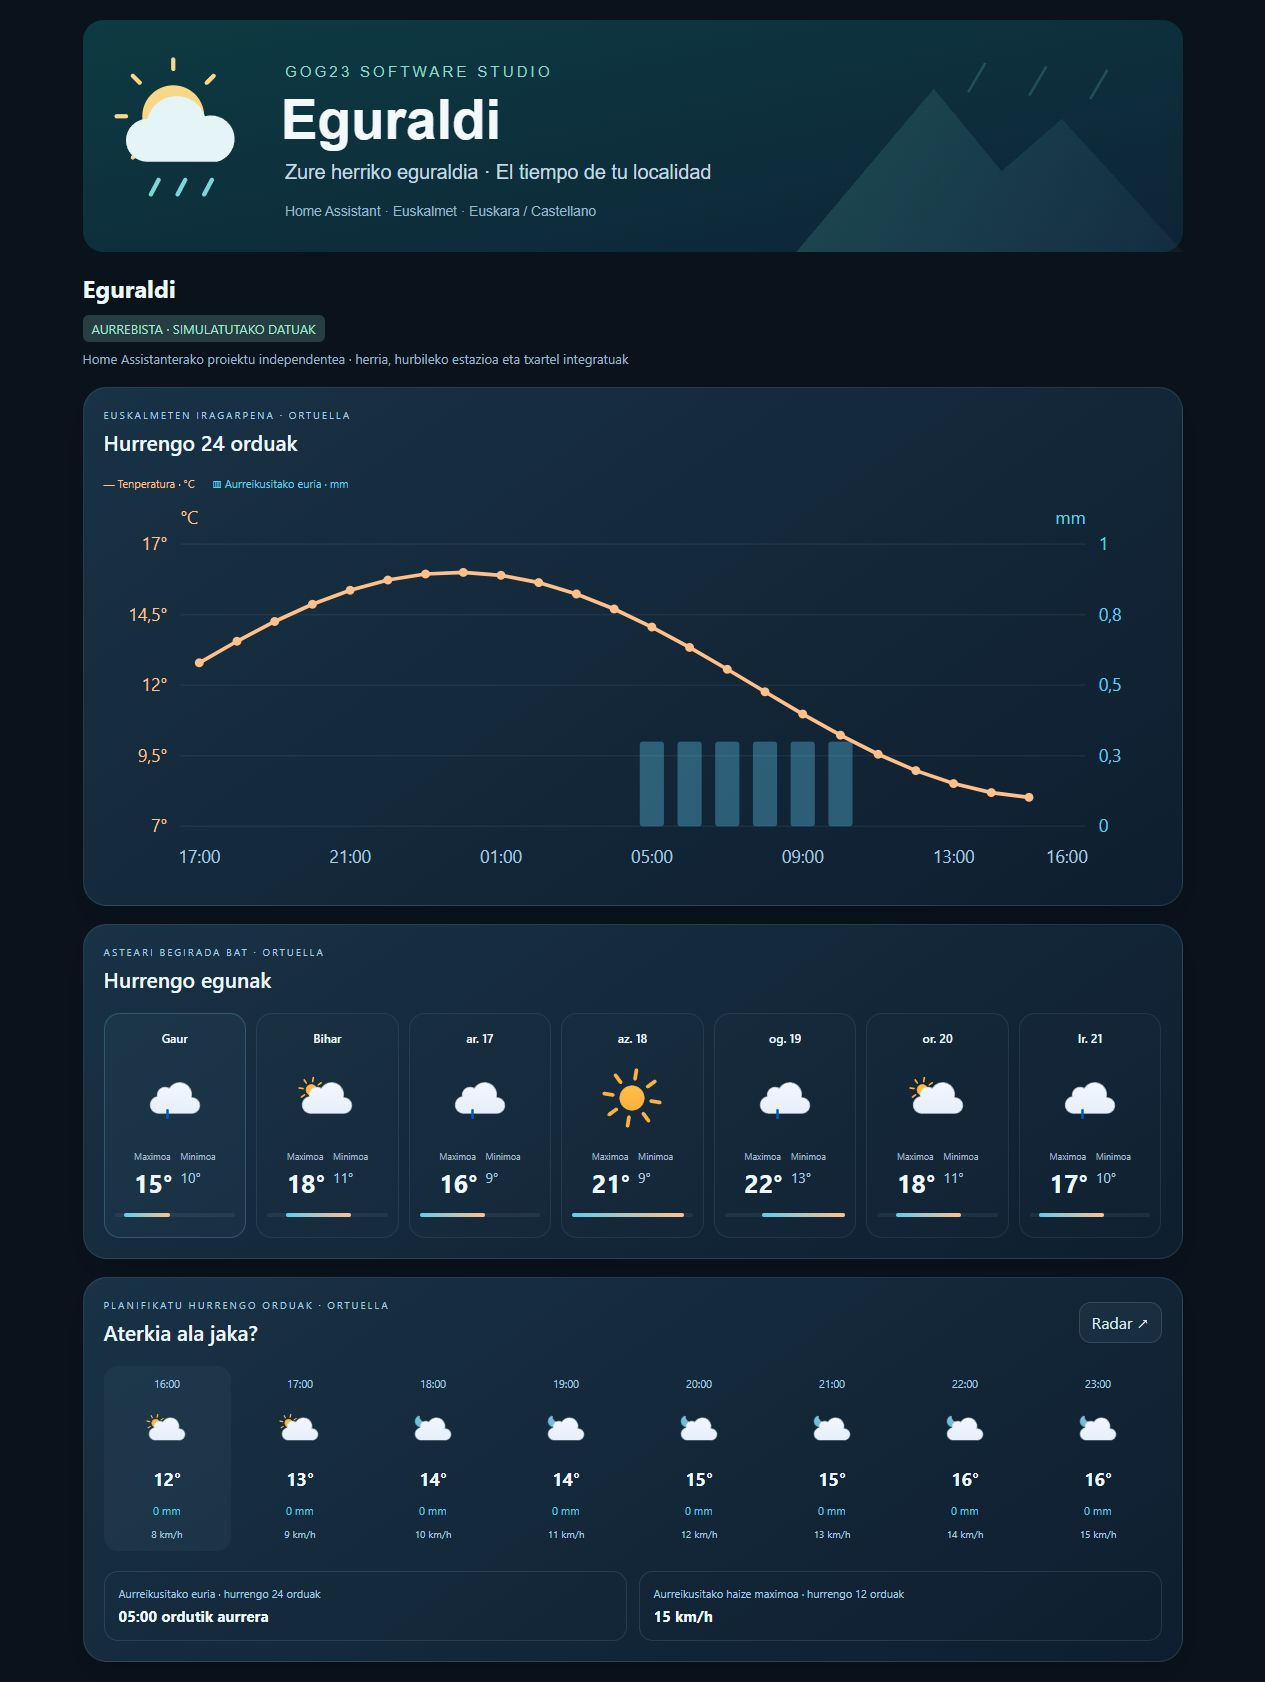
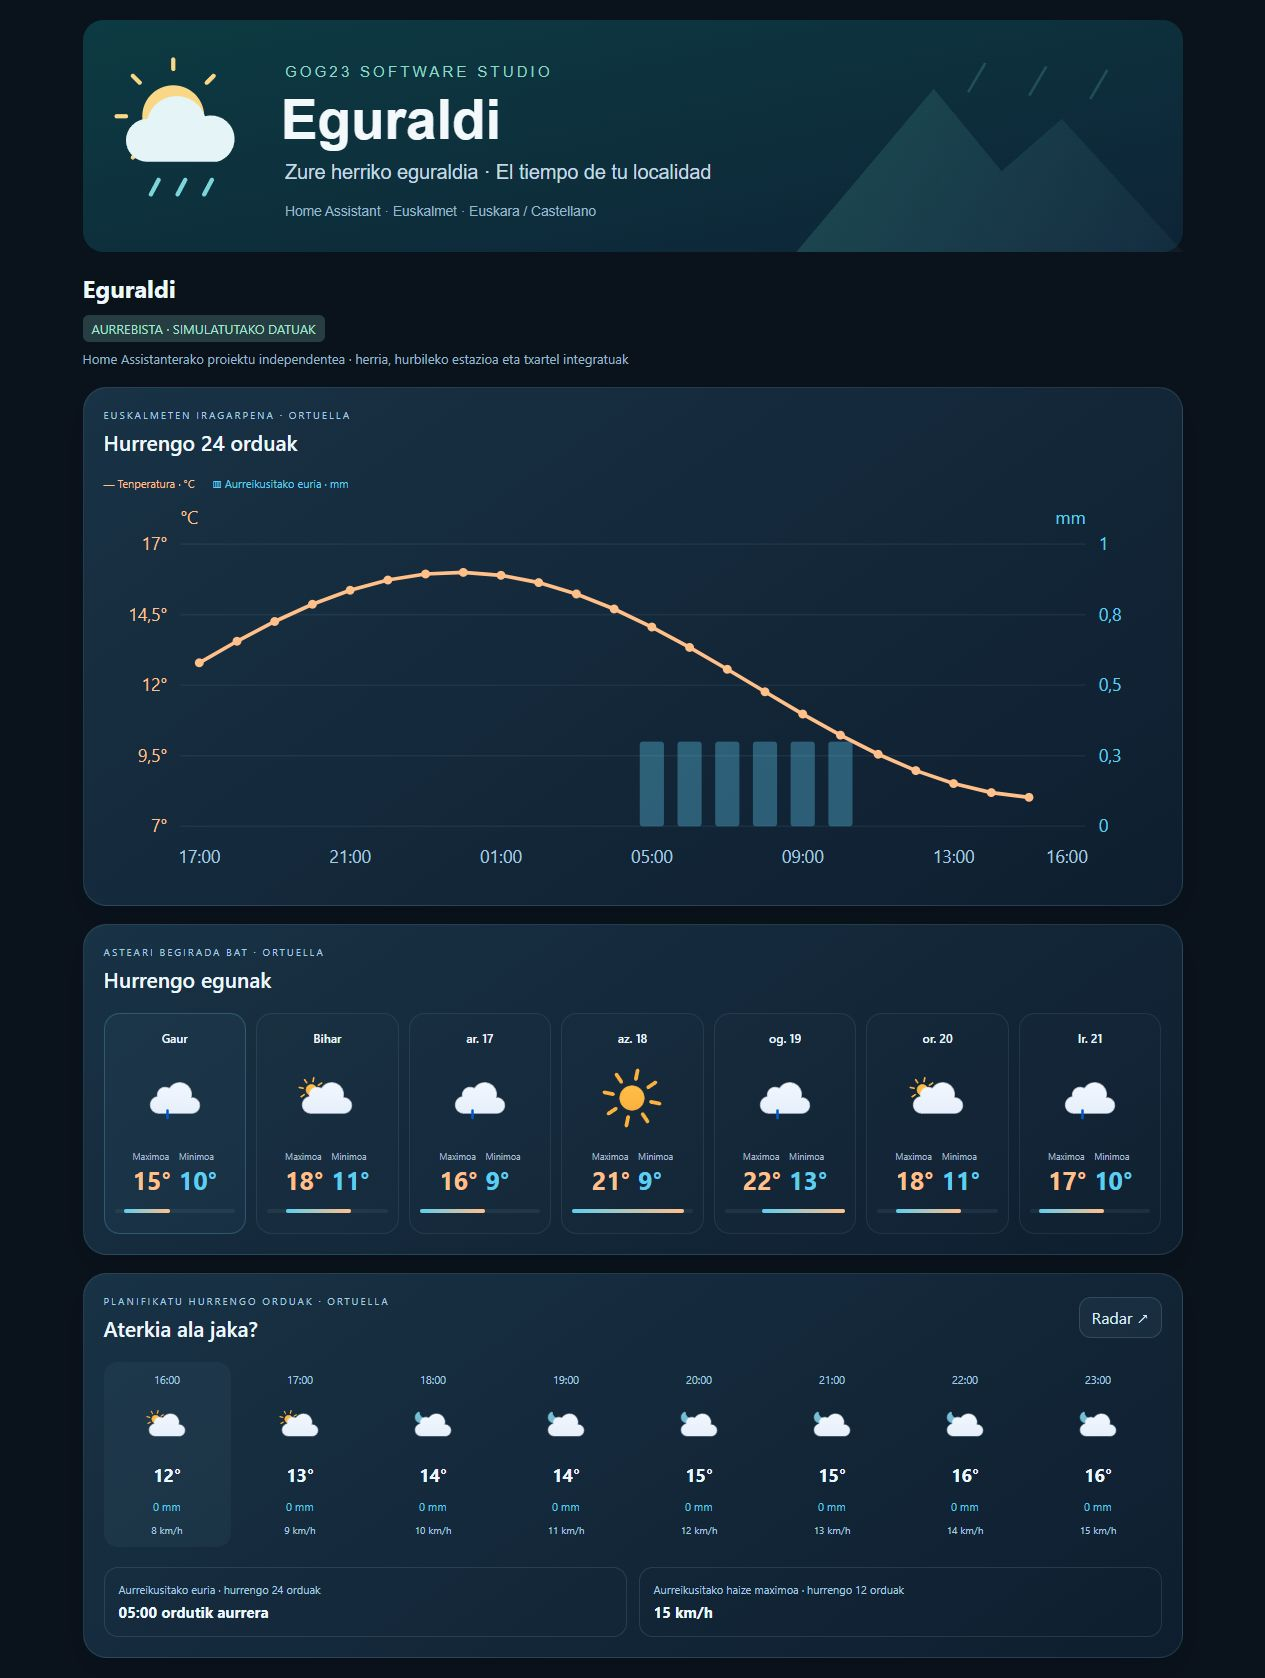
Equalize daily high and low temperatures with distinct colors

diff --git a/custom_components/euskalmet_local/frontend/euskalmet-local-card.js b/custom_components/euskalmet_local/frontend/euskalmet-local-card.js
@@ -1,8 +1,8 @@
 /* Eguraldi — GOG23 Software Studio. MIT. Icons: Meteocons / Bas Milius. */
-import './euskalmet-alert-card.js?v=0.1.7';
-import './eguraldi-comparison-card.js?v=0.1.7';
-import './euskalmet-history-card.js?v=0.1.7';
-import './euskalmet-radar-map-card.js?v=0.1.7';
+import './euskalmet-alert-card.js?v=0.1.8';
+import './eguraldi-comparison-card.js?v=0.1.8';
+import './euskalmet-history-card.js?v=0.1.8';
+import './euskalmet-radar-map-card.js?v=0.1.8';
 
 const EU_TEXT = {
   "Despejado": "Oskarbi",
@@ -146,8 +146,8 @@ const CSS = `
 
 
 const FORECAST_CSS=`
-.forecast-top{display:flex;justify-content:space-between;align-items:center;gap:12px;margin-bottom:20px}.forecast-top h2{margin:6px 0 0}.forecast-kicker{text-transform:uppercase;letter-spacing:2px;font-size:10px;color:#a9cbe4}.forecast-legend{display:flex;gap:18px;flex-wrap:wrap;font-size:11px;margin-bottom:12px}.forecast-legend .temperature{color:#ffbf83}.forecast-legend .precipitation{color:#68cef3}.forecast-chart{display:block;width:100%;height:auto;overflow:visible}.chart-grid{stroke:#a9cbe414;stroke-width:1}.chart-temp{stroke:#ffbf83;stroke-width:2.5;fill:none}.chart-bar{fill:#68cef3;fill-opacity:.35}.forecast-foot{display:flex;justify-content:space-between;gap:12px;flex-wrap:wrap;margin-top:18px;font-size:10px;color:#a9becf}.week-tiles{display:grid;grid-template-columns:repeat(auto-fit,minmax(115px,1fr));gap:10px}.week-tile{display:flex;flex-direction:column;align-items:center;min-width:0;padding:16px 10px;border:1px solid #9acdd91c;border-radius:16px;background:#ffffff02}.week-tile:first-child{background:#8ecade0a;border-color:#78c9ec40}.week-day{font-size:12px;font-weight:600}.week-tile img{width:80px;height:80px;margin:12px 0}.week-values{display:flex;align-items:baseline;gap:8px}.week-values strong{font-size:25px}.week-values span{font-size:14px;color:#a9cbe4}.week-values small{display:block;font-size:9px;font-weight:400;color:#a9becf;margin-bottom:4px}.week-track{height:4px;width:100%;position:relative;border-radius:4px;background:#94b9d017;margin:14px 0 4px}.week-range{position:absolute;height:100%;min-width:4px;max-width:100%;border-radius:4px;background:linear-gradient(90deg,#68cef3,#ffbf83)}.week-rain{font-size:11px;color:#68cef3}.planning-hours{display:grid;grid-template-columns:repeat(8,minmax(0,1fr));gap:6px}.planning-hour{text-align:center;padding:10px 2px;border-radius:14px;font-size:11px;color:#a9cbe4}.planning-hour:first-child{background:#8ecade0d}.planning-hour img{height:58px;width:100%;object-fit:contain;margin:9px 0}.planning-hour strong{display:block;color:#edf8ff;font-size:18px;margin:5px 0 12px}.planning-hour .planning-rain{color:#68cef3;margin-bottom:8px}.planning-hour small{font-size:10px}.planning-summary{display:grid;grid-template-columns:1fr 1fr;gap:12px;margin-top:20px}.planning-summary div{border:1px solid #9acdd926;border-radius:14px;padding:14px;font-size:11px;color:#a9cbe4}.planning-summary strong{display:block;margin-top:5px;font-size:15px;color:#edf8ff}#planning-radar:empty{display:none}#planning-radar{margin-top:16px}.chart-point:focus-visible{outline:none;stroke:#fff;stroke-width:3}
-@media(max-width:550px){.week-tiles{grid-template-columns:repeat(3,minmax(0,1fr));gap:8px}.week-tile{padding:12px 6px}.week-tile img{width:62px;height:62px}.week-values strong{font-size:22px}.planning-hours{grid-template-columns:repeat(4,minmax(0,1fr));row-gap:12px}.planning-summary{grid-template-columns:1fr}.forecast-top h2{font-size:19px}.forecast-chart text{font-size:18px}}
+.forecast-top{display:flex;justify-content:space-between;align-items:center;gap:12px;margin-bottom:20px}.forecast-top h2{margin:6px 0 0}.forecast-kicker{text-transform:uppercase;letter-spacing:2px;font-size:10px;color:#a9cbe4}.forecast-legend{display:flex;gap:18px;flex-wrap:wrap;font-size:11px;margin-bottom:12px}.forecast-legend .temperature{color:#ffbf83}.forecast-legend .precipitation{color:#68cef3}.forecast-chart{display:block;width:100%;height:auto;overflow:visible}.chart-grid{stroke:#a9cbe414;stroke-width:1}.chart-temp{stroke:#ffbf83;stroke-width:2.5;fill:none}.chart-bar{fill:#68cef3;fill-opacity:.35}.forecast-foot{display:flex;justify-content:space-between;gap:12px;flex-wrap:wrap;margin-top:18px;font-size:10px;color:#a9becf}.week-tiles{display:grid;grid-template-columns:repeat(auto-fit,minmax(115px,1fr));gap:10px}.week-tile{display:flex;flex-direction:column;align-items:center;min-width:0;padding:16px 10px;border:1px solid #9acdd91c;border-radius:16px;background:#ffffff02}.week-tile:first-child{background:#8ecade0a;border-color:#78c9ec40}.week-day{font-size:12px;font-weight:600}.week-tile img{width:80px;height:80px;margin:12px 0}.week-values{display:flex;align-items:baseline;gap:8px}.week-values strong,.week-values span{display:block;font-size:25px;font-weight:700;line-height:1.15}.week-values strong{color:#ffbf83}.week-values span{color:#68cef3}.week-values small{display:block;font-size:9px;font-weight:400;color:#a9becf;margin-bottom:4px}.week-track{height:4px;width:100%;position:relative;border-radius:4px;background:#94b9d017;margin:14px 0 4px}.week-range{position:absolute;height:100%;min-width:4px;max-width:100%;border-radius:4px;background:linear-gradient(90deg,#68cef3,#ffbf83)}.week-rain{font-size:11px;color:#68cef3}.planning-hours{display:grid;grid-template-columns:repeat(8,minmax(0,1fr));gap:6px}.planning-hour{text-align:center;padding:10px 2px;border-radius:14px;font-size:11px;color:#a9cbe4}.planning-hour:first-child{background:#8ecade0d}.planning-hour img{height:58px;width:100%;object-fit:contain;margin:9px 0}.planning-hour strong{display:block;color:#edf8ff;font-size:18px;margin:5px 0 12px}.planning-hour .planning-rain{color:#68cef3;margin-bottom:8px}.planning-hour small{font-size:10px}.planning-summary{display:grid;grid-template-columns:1fr 1fr;gap:12px;margin-top:20px}.planning-summary div{border:1px solid #9acdd926;border-radius:14px;padding:14px;font-size:11px;color:#a9cbe4}.planning-summary strong{display:block;margin-top:5px;font-size:15px;color:#edf8ff}#planning-radar:empty{display:none}#planning-radar{margin-top:16px}.chart-point:focus-visible{outline:none;stroke:#fff;stroke-width:3}
+@media(max-width:550px){.week-tiles{grid-template-columns:repeat(3,minmax(0,1fr));gap:8px}.week-tile{padding:12px 6px}.week-tile img{width:62px;height:62px}.week-values strong,.week-values span{font-size:22px}.planning-hours{grid-template-columns:repeat(4,minmax(0,1fr));row-gap:12px}.planning-summary{grid-template-columns:1fr}.forecast-top h2{font-size:19px}.forecast-chart text{font-size:18px}}
 `;
 
 export class EuskalmetLocalCard extends HTMLElement {

diff --git a/docs/preview.html b/docs/preview.html
@@ -6,7 +6,7 @@
 
 <script type="module">
 
-import {EuskalmetLocalCard} from '/euskalmet_local_static/euskalmet-local-card.js?v=0.1.7';
+import {EuskalmetLocalCard} from '/euskalmet_local_static/euskalmet-local-card.js?v=0.1.8';
 
 const now=new Date().setMinutes(0,0,0),loc={entry_id:'demo',locality:'Ortuella',station:'Arboleda',location_source:'home_assistant',distance_km:1.8,latitude:43.31,longitude:-3.05,entities:{weather:'weather.demo',temperature:'sensor.demo_temperature',humidity:'sensor.demo_humidity',precipitation_today:'sensor.demo_rain',temperature_min_today:'sensor.demo_min',temperature_max_today:'sensor.demo_max',wind_gust_max_today:'sensor.demo_gust',irradiance:'sensor.demo_irradiance'}};
 

diff --git a/custom_components/euskalmet_local/dashboard.py b/custom_components/euskalmet_local/dashboard.py
@@ -7,7 +7,7 @@ from homeassistant.helpers import entity_registry as er
 
 from .const import DOMAIN
 
-VERSION = "0.1.7"
+VERSION = "0.1.8"
 EVENT_LOCATIONS_UPDATED = f"{DOMAIN}_locations_updated"
 
 

diff --git a/README.eu.md b/README.eu.md
@@ -11,7 +11,7 @@ Euskalmeteko eguraldia Home Assistanten: hurbileko estazioen neurketak, orduko e
 [![Egiaztapenak](https://github.com/GOG23-Software-Studio/eguraldi/actions/workflows/ci.yml/badge.svg)](https://github.com/GOG23-Software-Studio/eguraldi/actions/workflows/ci.yml)
 [![Bertsioa](https://img.shields.io/github/v/release/GOG23-Software-Studio/eguraldi)](https://github.com/GOG23-Software-Studio/eguraldi/releases)
 
-**0.1.7 bertsioa.** Komunitate-proiektu independentea, Euskalmetekin edo Eusko Jaurlaritzarekin lotura ofizialik gabea.
+**0.1.8 bertsioa.** Komunitate-proiektu independentea, Euskalmetekin edo Eusko Jaurlaritzarekin lotura ofizialik gabea.
 
 ![Eguraldiren txartelak, simulatutako datuekin](docs/preview-eu.jpg)
 

diff --git a/README.md b/README.md
@@ -12,7 +12,7 @@ El tiempo de Euskalmet en Home Assistant: observaciones de estaciones cercanas, 
 
 [![Versión](https://img.shields.io/github/v/release/GOG23-Software-Studio/eguraldi)](https://github.com/GOG23-Software-Studio/eguraldi/releases)
 
-**Versión 0.1.7.** Proyecto comunitario independiente, sin afiliación con Euskalmet ni con el Gobierno Vasco.
+**Versión 0.1.8.** Proyecto comunitario independiente, sin afiliación con Euskalmet ni con el Gobierno Vasco.
 
 ![Tarjetas actuales de Eguraldi en escritorio, con datos simulados](docs/preview.jpg)
 

diff --git a/CHANGELOG.md b/CHANGELOG.md
@@ -1,5 +1,10 @@
 # Cambios
 
+## 0.1.8
+
+- Máximas y mínimas de la semana visual al mismo tamaño y peso, también en móvil. Máximas en naranja y mínimas en azul.
+- Capturas de previsión actualizadas en ambos idiomas.
+
 ## 0.1.7
 
 - Radar integrado con el fondo azul, tipografía y controles del resto de Eguraldi, sin panel negro interior ni cabecera añadida.
